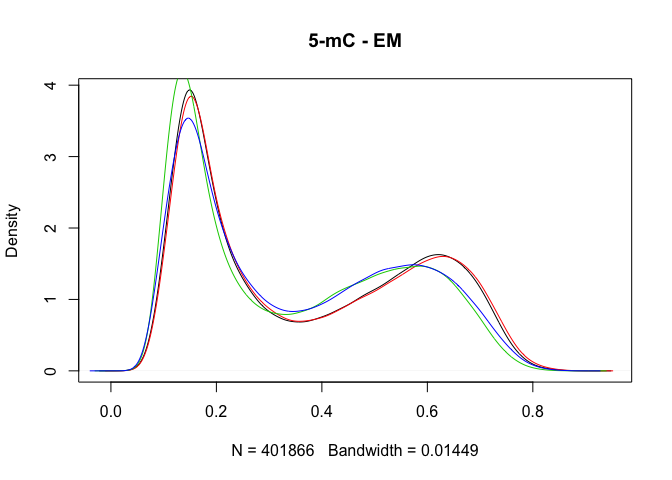
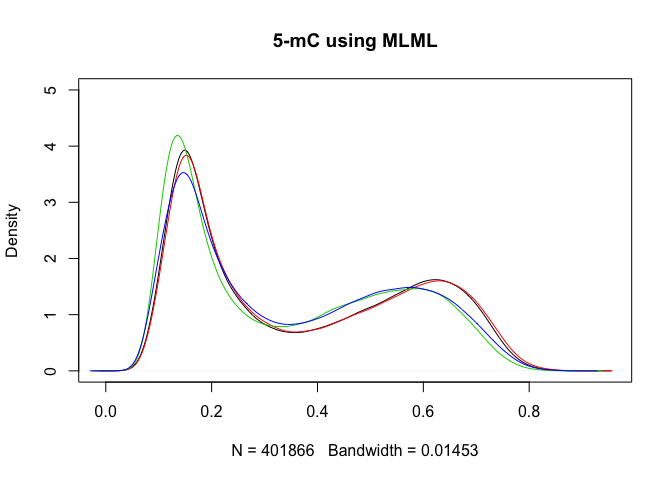
naive approach

diff --git a/README.md b/README.md
@@ -212,10 +212,9 @@ save(rgSet,file="rgSet.rds")
 
 ## Preprocessing
 
-First, we removed probes with detection p-value $<0.01$ in any of the 8 arrays. The function `detectionP`  identifies failed positions defined as both the methylated and unmethylated channel reporting background signal levels.
+We refer the reader to the `minfi` package tutorials for more preprocessing options.
 
-
-
+First, we removed probes with detection p-value $<0.01$ in any of the 8 arrays. The function `detectionP` identifies failed positions defined as both the methylated and unmethylated channel reporting background signal levels.
 
 
 ```r
@@ -246,6 +245,15 @@ MSet <- MSet[keep_probes,] # keep good probes
 
 Arrays were then normalized using the SWAN method.
 
+
+From a `MethylSet` it is easy to compute Beta values, defined as
+
+$$Beta = Meth / (Meth + Unmeth + offset)$$
+
+The offset is chosen to avoid dividing with small values. Illumina uses a default of 100. The function `getBeta` from `minfi` package can be used to obtain the Beta values.
+
+
+
 ```r
 MSet.swan<- preprocessSWAN(rgSet, mSet = MSet)
 densityPlot(MSet.swan, sampGroups= pData(rgSet)$method,
@@ -272,11 +280,11 @@ devtools::install_github("samarafk/MLML2R")
 Prepare de input data:
 
 ```r
-MethylatedBS1 <- getMeth(MSet.swan)[,c(1,3,5,6)]
-UnMethylatedBS1 <- getUnmeth(MSet.swan)[,c(1,3,5,6)]
+MethylatedBS <- getMeth(MSet.swan)[,c(1,3,5,6)]
+UnMethylatedBS <- getUnmeth(MSet.swan)[,c(1,3,5,6)]
 
-MethylatedOxBS1 <- getMeth(MSet.swan)[,c(7,8,2,4)]
-UnMethylatedOxBS1 <- getUnmeth(MSet.swan)[,c(7,8,2,4)]
+MethylatedOxBS <- getMeth(MSet.swan)[,c(7,8,2,4)]
+UnMethylatedOxBS <- getUnmeth(MSet.swan)[,c(7,8,2,4)]
 ```
 
 
@@ -286,7 +294,7 @@ Getting the MLE estimates:
 ```r
 library(MLML2R)
 
-results <- MLML(T = MethylatedBS1 , U = UnMethylatedBS1, L = UnMethylatedOxBS1, M = MethylatedOxBS1,tol=0.0001)
+results <- MLML(T = MethylatedBS , U = UnMethylatedBS, L = UnMethylatedOxBS, M = MethylatedOxBS,tol=0.0001)
 save(results,file="results.rds")
 ```
 
@@ -295,7 +303,7 @@ Plot of the results (we have 4 replicates)
 
 
 ```r
-plot(density(results$hmC[,1]),main= "5-hmC - EM")
+plot(density(results$hmC[,1]),main= "5-hmC using MLML")
 lines(density(results$hmC[,2]),col=2)
 lines(density(results$hmC[,3]),col=3)
 lines(density(results$hmC[,4]),col=4)
@@ -304,7 +312,7 @@ lines(density(results$hmC[,4]),col=4)
 ![](README_files/figure-html/unnamed-chunk-22-1.png)<!-- -->
 
 ```r
-plot(density(results$mC[,1]),main= "5-mC - EM")
+plot(density(results$mC[,1]),main= "5-mC using MLML",ylim=c(0,5))
 lines(density(results$mC[,2]),col=2)
 lines(density(results$mC[,3]),col=3)
 lines(density(results$mC[,4]),col=4)
@@ -313,3 +321,21 @@ lines(density(results$mC[,4]),col=4)
 ![](README_files/figure-html/unnamed-chunk-22-2.png)<!-- -->
 
 
+## Naive estimates
+
+
+The naive approach to obtain 5-hmC levels is $\beta_{BS} -  \beta_{OxBS}$. This approach results in negative values for the 5-hmC levels.
+
+
+```r
+beta_BS <- getBeta(MSet.swan)[,c(1,3,5,6)]
+beta_OxBS <- getBeta(MSet.swan)[,c(7,8,2,4)]
+hmC_naive <- beta_BS-beta_OxBS
+
+plot(density(hmC_naive[,1]),main= "5-hmC using naive",ylim=c(0,8))
+lines(density(hmC_naive[,2]),col=2)
+lines(density(hmC_naive[,3]),col=3)
+lines(density(hmC_naive[,4]),col=4)
+```
+
+![](README_files/figure-html/unnamed-chunk-23-1.png)<!-- -->
